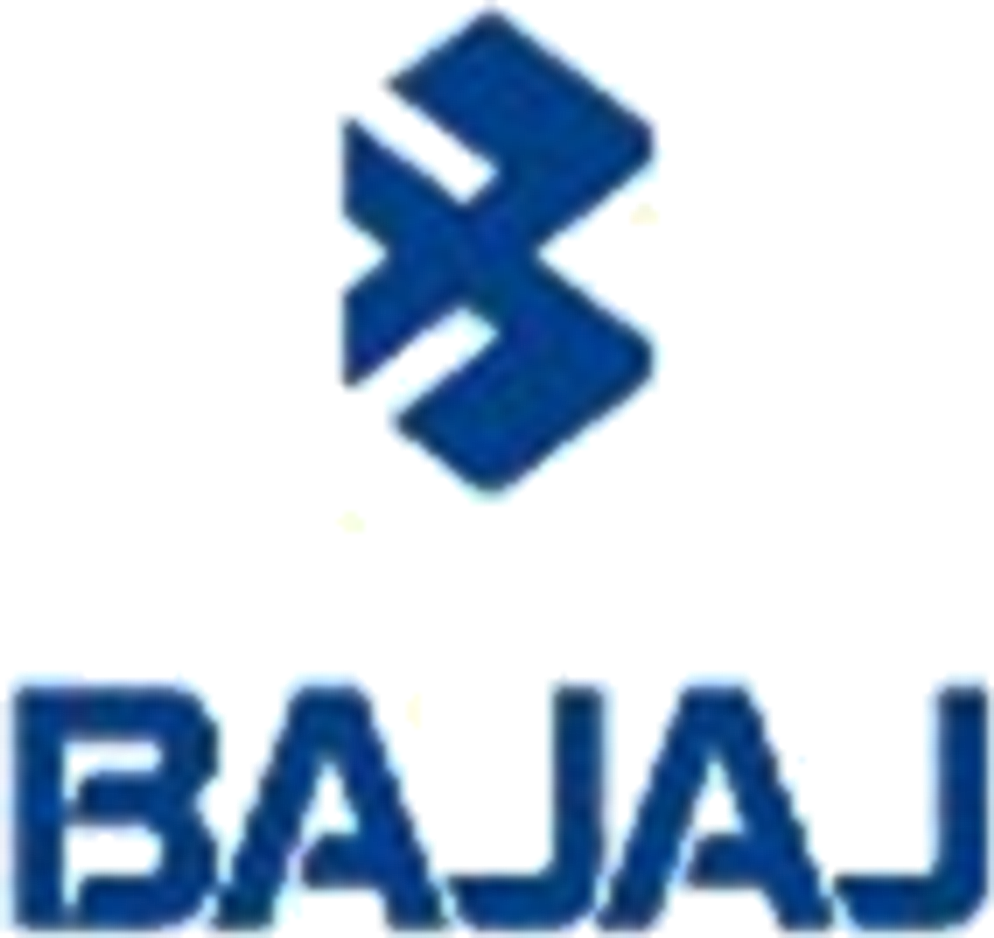
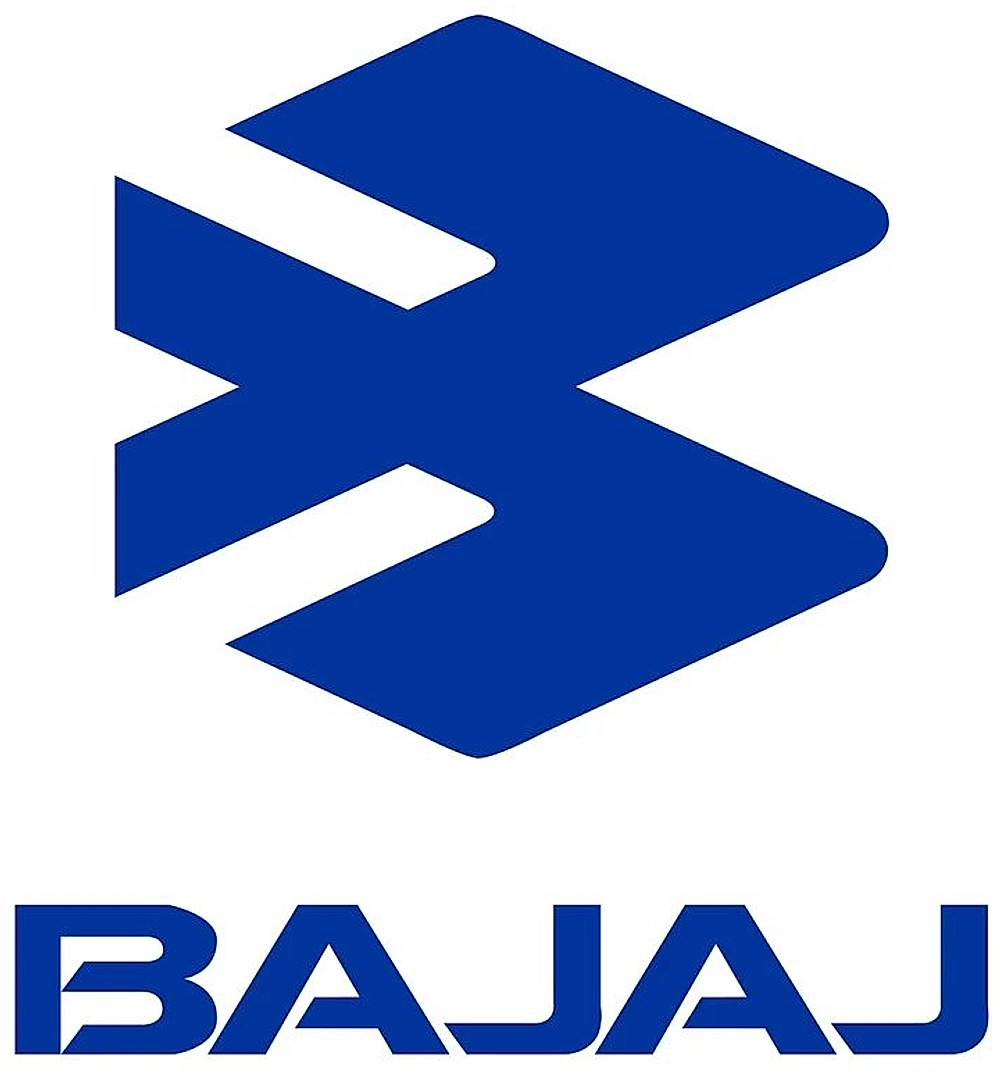
fix(assets): update Promart, Nilkamal, Oriental, Bajaj, Reliance Power, Total, Viraj, and Welspun to ultra-HD with cache buster v4

diff --git a/src/components/ClientLogoMarquee.tsx b/src/components/ClientLogoMarquee.tsx
@@ -448,7 +448,7 @@ export const ClientLogoMarquee: React.FC<{
         {/* Exact Authentic Logo Image - Uses Full Box Size with Ultra-Crisp Rendering */}
         <div className="flex-1 w-full flex items-center justify-center px-1 py-0.5 pointer-events-none overflow-hidden">
           <img
-            src={`${client.logoSrc}?v=20261125_ultra_hd_v3`}
+            src={`${client.logoSrc}?v=20261125_ultra_hd_v4`}
             alt={client.name}
             draggable={false}
             className="w-full h-full max-h-[92px] sm:max-h-[96px] max-w-[250px] sm:max-w-[265px] object-contain select-none pointer-events-none"
